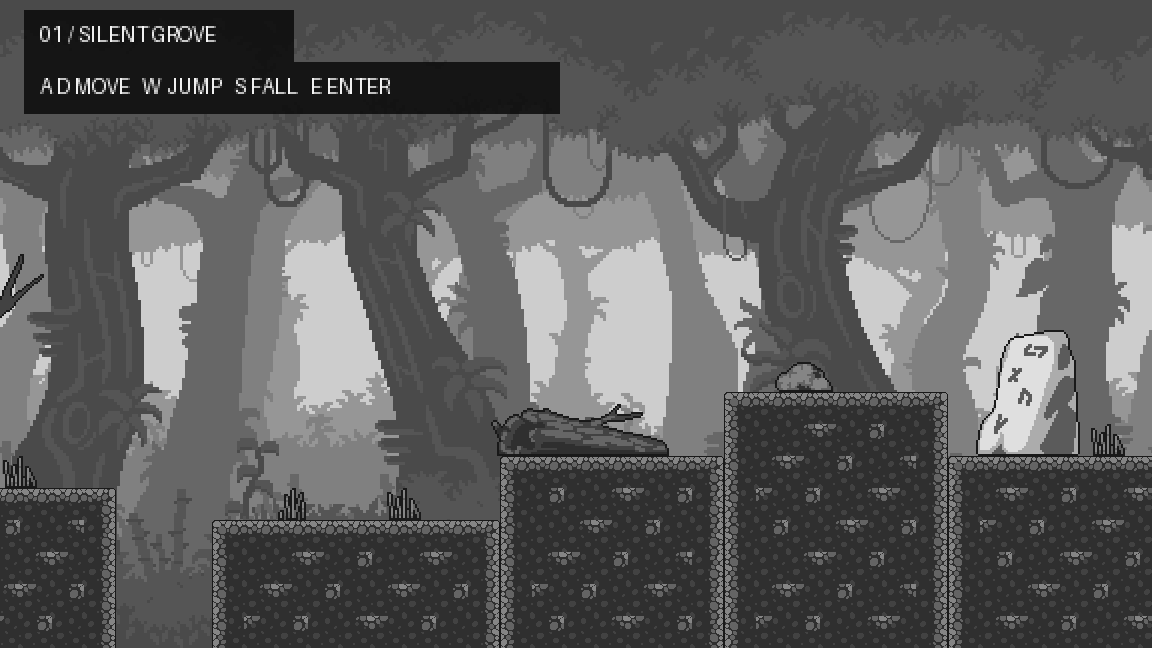
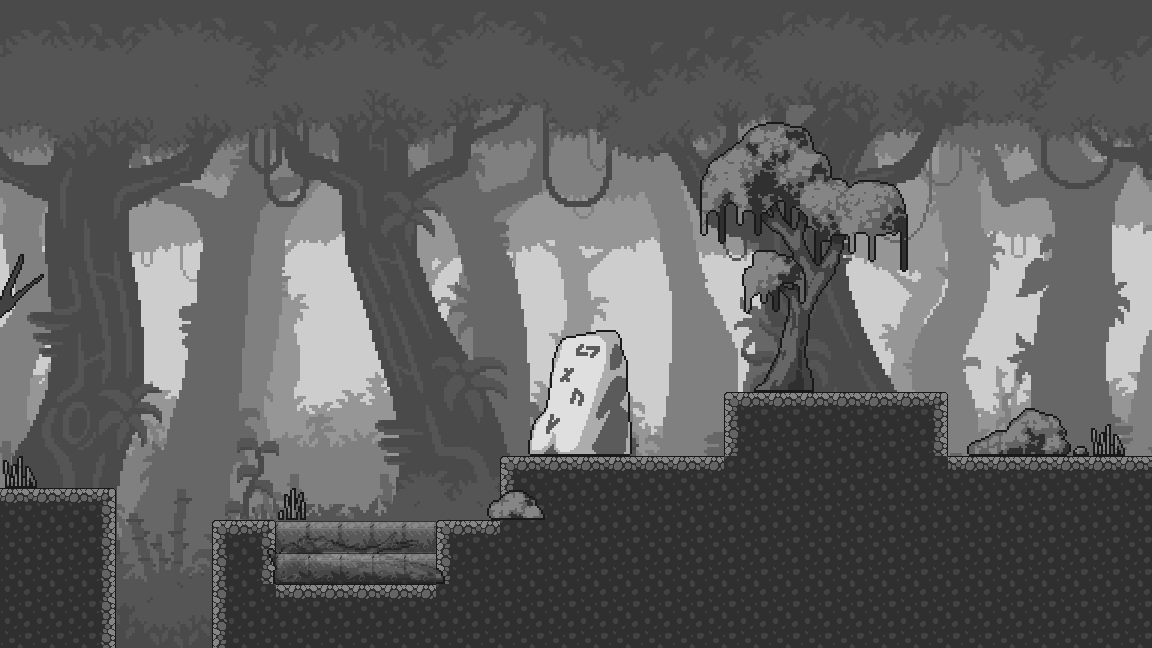
지형 연결부와 물 웅덩이 구현 및 캐릭터 표시 개선

diff --git a/tests/test_game.py b/tests/test_game.py
@@ -104,8 +104,9 @@ class PlatformerTests(unittest.TestCase):
                 p = self.player
                 foot = p.y - p.DRAW_SIZE / 2
                 if p.grounded:
-                    ahead = any(s.left > p.x and s.left - (p.x + 44) < 40
-                                and s.top > foot + 1 and s.bottom < p.y + 44
+                    half = p.DRAW_SIZE / 2
+                    ahead = any(s.left > p.x and s.left - (p.x + half) < 40
+                                and s.top > foot + 1 and s.bottom < p.y + half
                                 for s in level.platforms)
                     support = next((s for s in level.platforms
                                     if abs(s.top - foot) < 1 and s.left <= p.x < s.right), None)
@@ -127,11 +128,11 @@ class PlatformerTests(unittest.TestCase):
         self.player.enter_level(level)
         self.key(pico2d.SDLK_d)
         self.player.update(1)
-        self.assertEqual(self.player.x, 276)
+        self.assertEqual(self.player.x, 320 - Player.DRAW_SIZE / 2)
         self.key(pico2d.SDLK_w)
         self.player.update(0.7)
         self.assertTrue(self.player.grounded)
-        self.assertEqual(self.player.y, 204)
+        self.assertEqual(self.player.y, 160 + Player.DRAW_SIZE / 2)
         self.player.update(0.6)
         self.assertFalse(self.player.grounded)
         self.key(pico2d.SDLK_d, False)
@@ -142,7 +143,7 @@ class PlatformerTests(unittest.TestCase):
         self.key(pico2d.SDLK_w, False)
         self.key(pico2d.SDLK_w)
         self.player.update(0.1)
-        self.assertLessEqual(self.player.y + 44, 208)
+        self.assertLessEqual(self.player.y + Player.DRAW_SIZE / 2, 208)
         self.assertLessEqual(self.player.velocity_y, 0)
 
     def test_exit_requires_nearby_grounded_player_and_level_resets_motion(self):
@@ -174,7 +175,7 @@ class PlatformerTests(unittest.TestCase):
             events.frame += 1
             if frame in (2, 3, 5):
                 active.x = active.level.exit_x
-                active.y = active.level.exit_y + 44
+                active.y = active.level.exit_y + active.DRAW_SIZE / 2
             if frame == 6:
                 return [SimpleNamespace(type=pico2d.SDL_QUIT)]
             return [SimpleNamespace(type=pico2d.SDL_KEYUP if frame in (1, 4) else pico2d.SDL_KEYDOWN,
@@ -190,6 +191,33 @@ class PlatformerTests(unittest.TestCase):
                             get_events=events, update_canvas=lambda: None, delay=lambda t: None):
             game.main()
         self.assertEqual(scenes, [0, 1, 0])
+
+    def test_connected_soil_uses_plain_tile_and_exposed_walls_keep_edges(self):
+        level = Level()
+        level.platforms = [Platform(0, 0, 64, 96), Platform(64, 0, 128, 160)]
+        tiles = level.terrain_tiles()
+        self.assertEqual(tiles[1, 1], 12)
+        self.assertEqual(tiles[2, 1], 12)
+        self.assertEqual(tiles[2, 3], 11)
+        self.assertEqual(tiles[0, 1], 11)
+        self.assertEqual(tiles[3, 1], 13)
+
+    def test_water_is_enterable_has_a_floor_and_allows_jumping_out(self):
+        for index in (0, 1):
+            level = Level(index)
+            for pool in level.water:
+                self.player.enter_level(level)
+                self.player.x = (pool.left + pool.right) / 2
+                self.player.y = pool.top + 40
+                self.player.grounded = False
+                self.player.update(0.8)
+                self.assertEqual(self.player.y, pool.bottom + 40)
+                self.assertTrue(self.player.grounded)
+                self.assertTrue(self.player.in_water)
+                self.key(pico2d.SDLK_w)
+                self.player.update(0.17)
+                self.assertGreater(self.player.y - 40, pool.top)
+                self.assertFalse(self.player.in_water)
 
 
 if __name__ == "__main__":

diff --git a/code/background.py b/code/background.py
@@ -18,12 +18,13 @@ class Background:
         self.layers = [pico2d.load_image(str(p)) for p in paths]
         self.scroll_rates = (0.0, 0.15, 0.3, 0.5, 0.75)
         self.tiles = {i: pico2d.load_image(str(scenery / "tiles" / f"Tile_{i:02}.png"))
-                      for i in (1, 2, 3, 11, 12, 13, 24, 57, 58)}
+                      for i in (1, 2, 3, 10, 11, 12, 13, 20, 30)}
+        self.terrain = self.level.terrain_tiles()
+        for i in (10, 20, 30):
+            self.tiles[i].opacify(0.55)
         self.objects = {name: pico2d.load_image(str(scenery / "objects" / f"{name}.png"))
                         for name, *_ in self.level.objects}
         self.prompt = pico2d.load_image(str(scenery / "press_e.png"))
-        self.title = pico2d.load_image(str(scenery / ("grove.png" if self.level.index == 0 else "temple.png")))
-        self.controls = pico2d.load_image(str(scenery / "controls.png"))
 
     def draw(self, camera_x):
         for layer, rate in zip(self.layers, self.scroll_rates):
@@ -31,19 +32,11 @@ class Background:
             for start in (-offset, SCREEN_WIDTH - offset):
                 layer.draw(start + SCREEN_WIDTH // 2, SCREEN_HEIGHT // 2,
                            SCREEN_WIDTH, SCREEN_HEIGHT)
-        for platform in self.level.platforms:
-            first = max(platform.left // TILE_SIZE, math.floor(camera_x / TILE_SIZE))
-            last = min(platform.right // TILE_SIZE, math.ceil((camera_x + SCREEN_WIDTH) / TILE_SIZE))
-            for col in range(first, last):
-                edge = 0 if col * TILE_SIZE == platform.left else (2 if (col + 1) * TILE_SIZE == platform.right else 1)
-                for y in range(platform.bottom, platform.top, TILE_SIZE):
-                    if y == platform.top - TILE_SIZE:
-                        tile = (1, 2, 3)[edge]
-                    elif edge != 1:
-                        tile = (11, 12, 13)[edge]
-                    else:
-                        tile = (12, 24, 57, 58)[(col * 7 + y // TILE_SIZE) % 4]
-                    self.tiles[tile].draw(col * TILE_SIZE + 16 - round(camera_x), y + 16, 32, 32)
+        first = math.floor(camera_x / TILE_SIZE)
+        last = math.ceil((camera_x + SCREEN_WIDTH) / TILE_SIZE)
+        for (col, row), tile in self.terrain.items():
+            if first <= col < last:
+                self.tiles[tile].draw(col * 32 + 16 - round(camera_x), row * 32 + 16, 32, 32)
         for name, x, y, scale in self.level.objects:
             obj = self.objects[name]
             w, h = obj.w * scale, obj.h * scale
@@ -51,7 +44,12 @@ class Background:
                 obj.draw(round(x - camera_x), y + h / 2, w, h)
 
     def draw_overlay(self, camera_x, player):
-        self.title.draw(24 + self.title.w / 2, SCREEN_HEIGHT - 36)
-        self.controls.draw(24 + self.controls.w / 2, SCREEN_HEIGHT - 88)
+        # Water is drawn over the player; its surface is never solid terrain.
+        for pool in self.level.water:
+            for x in range(pool.left, pool.right, 32):
+                if -32 <= x - camera_x <= SCREEN_WIDTH:
+                    for y in range(pool.bottom, pool.top, 32):
+                        self.tiles[10 if y == pool.top - 32 else 20].draw(
+                            x + 16 - round(camera_x), y + 16, 32, 32)
         if self.level.can_exit(player):
             self.prompt.draw(round(self.level.exit_x - camera_x), self.level.exit_y + 190)

diff --git a/code/level.py b/code/level.py
@@ -12,6 +12,14 @@ class Platform:
     top: int
 
 
+@dataclass(frozen=True)
+class Water:
+    left: int
+    bottom: int
+    right: int
+    top: int
+
+
 class Level:
     def __init__(self, index=0):
         self.index = index % 2
@@ -25,11 +33,20 @@ class Level:
              (39, 47, 8), (47, 54, 6), (54, 62, 4), (65, 73, 4),
              (73, 80, 6), (80, 87, 8), (87, 95, 6), (95, 120, 3)],
         )
-        self.platforms = [Platform(a * 32, 0, b * 32, h * 32)
-                          for a, b, h in routes[self.index]]
+        self.platforms = []
+        self.water = []
+        for i, (a, b, h) in enumerate(routes[self.index]):
+            if i in (4, 8, 11):
+                left, right = (a + 2) * 32, min(b - 2, a + 9) * 32
+                self.platforms += [Platform(a * 32, 0, left, h * 32),
+                                   Platform(left, 0, right, (h - 2) * 32),
+                                   Platform(right, 0, b * 32, h * 32)]
+                self.water.append(Water(left, (h - 2) * 32, right, h * 32))
+            else:
+                self.platforms.append(Platform(a * 32, 0, b * 32, h * 32))
         # Optional higher ledges provide a second route over parts of the path.
-        ledges = ([(8, 12, 6), (88, 92, 9)], [(8, 12, 6), (99, 104, 6)])
-        self.platforms += [Platform(a * 32, (h - 1) * 32, b * 32, h * 32)
+        ledges = ([(8, 14, 6), (88, 94, 9)], [(8, 13, 6), (98, 103, 6)])
+        self.platforms += [Platform(a * 32, (h - 2) * 32, b * 32, h * 32)
                            for a, b, h in ledges[self.index]]
         self.width = 120 * TILE_SIZE
         self.spawn = (200.0, 96.0)
@@ -50,3 +67,17 @@ class Level:
     def can_exit(self, player):
         return (player.grounded and abs(player.x - self.exit_x) <= 80
                 and abs(player.y - player.DRAW_SIZE / 2 - self.exit_y) < 3)
+
+    def terrain_tiles(self):
+        cells = {(x, y) for p in self.platforms
+                 for x in range(p.left // 32, p.right // 32)
+                 for y in range(p.bottom // 32, p.top // 32)}
+        tiles = {}
+        for x, y in cells:
+            left, right = (x - 1, y) in cells, (x + 1, y) in cells
+            if (x, y + 1) not in cells:
+                tile = 1 if not left else (3 if not right else 2)
+            else:
+                tile = 11 if not left else (13 if not right else 12)
+            tiles[x, y] = tile
+        return tiles

diff --git a/code/player.py b/code/player.py
@@ -5,7 +5,7 @@ from .settings import GROUND_HEIGHT, IMAGE_ROOT, SCREEN_HEIGHT, WORLD_WIDTH
 
 class Player:
     SIZE = 64
-    DRAW_SIZE = 88
+    DRAW_SIZE = 80
     SPEED = 240.0
     GRAVITY = 1500.0
     JUMP_SPEED = 560.0
@@ -17,7 +17,7 @@ class Player:
         self.level = level
         self.images = {
             state: pico2d.load_image(
-                str(IMAGE_ROOT / "background" / "grayscale" / "character" / f"{state}.png")
+                str(IMAGE_ROOT / "character" / state / f"{state}_blue.png")
             )
             for state in ("idle", "run")
         }
@@ -79,11 +79,20 @@ class Player:
         self.state, self.frame = "idle", 0.0
         self.keys.clear()
 
+    @property
+    def in_water(self):
+        return self.level is not None and any(
+            pool.left < self.x < pool.right
+            and self.y - self.DRAW_SIZE / 2 < pool.top
+            and self.y + self.DRAW_SIZE / 2 > pool.bottom
+            for pool in self.level.water)
+
     def _move_on_platforms(self, dt, dx):
         half = self.DRAW_SIZE / 2
         solids = self.level.platforms
         old_x = self.x
-        self.x = max(half, min(self.x + dx * self.SPEED * dt, self.level.width - half))
+        speed = self.SPEED * (0.7 if self.in_water else 1.0)
+        self.x = max(half, min(self.x + dx * speed * dt, self.level.width - half))
         for p in solids:
             if self.y + half <= p.bottom + 0.01 or self.y - half >= p.top - 0.01:
                 continue

diff --git a/tools/preview_levels.py b/tools/preview_levels.py
@@ -17,10 +17,16 @@ class Sprite:
     def __init__(self, path):
         self.image = Image.open(path).convert("RGBA")
         self.w, self.h = self.image.size
+        self.opacity = 1.0
+
+    def opacify(self, opacity):
+        self.opacity = opacity
 
     def draw(self, x, y, w=None, h=None):
         w, h = round(w or self.w), round(h or self.h)
         bitmap = self.image.resize((w, h), Image.Resampling.NEAREST)
+        if self.opacity != 1.0:
+            bitmap.putalpha(bitmap.getchannel("A").point(lambda v: round(v * self.opacity)))
         canvas.paste(bitmap, (round(x - w / 2), round(648 - y - h / 2)), bitmap)
 
     def clip_composite_draw(self, x, y, w, h, angle, flip, cx, cy, dw, dh):
@@ -45,7 +51,7 @@ def main():
             for label, camera in (("start", 0), ("middle", 1100), ("exit", level.width - 1152)):
                 canvas = Image.new("RGB", (1152, 648))
                 if label == "exit":
-                    player.x, player.y = level.exit_x, level.exit_y + 44
+                    player.x, player.y = level.exit_x, level.exit_y + player.DRAW_SIZE / 2
                 background.draw(camera)
                 player.draw(camera)
                 background.draw_overlay(camera, player)
